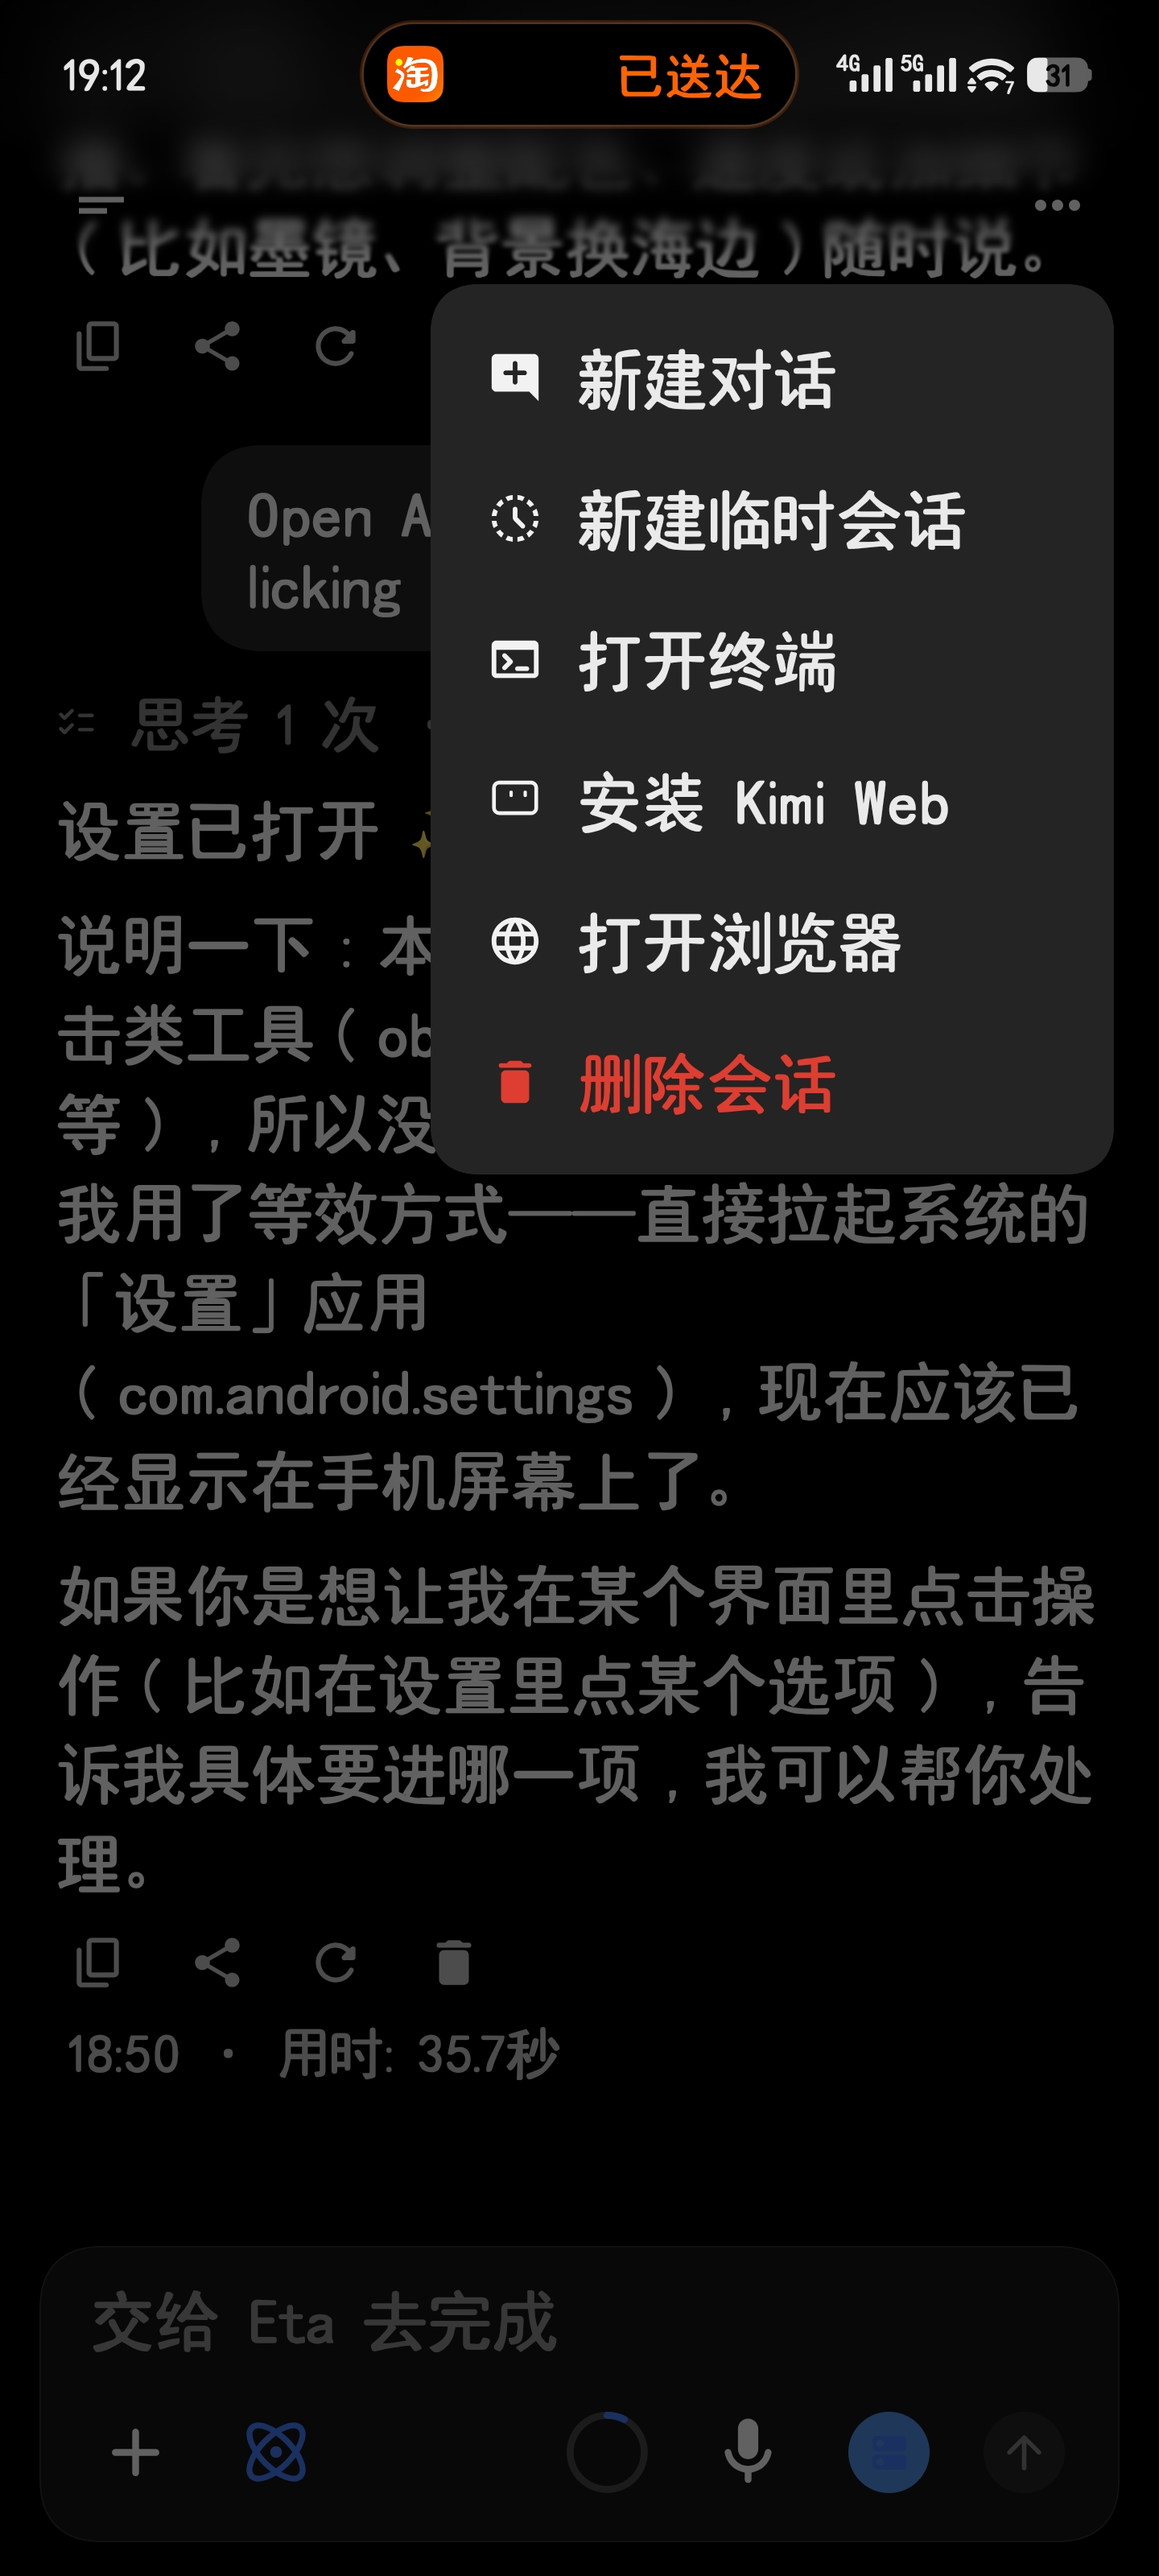
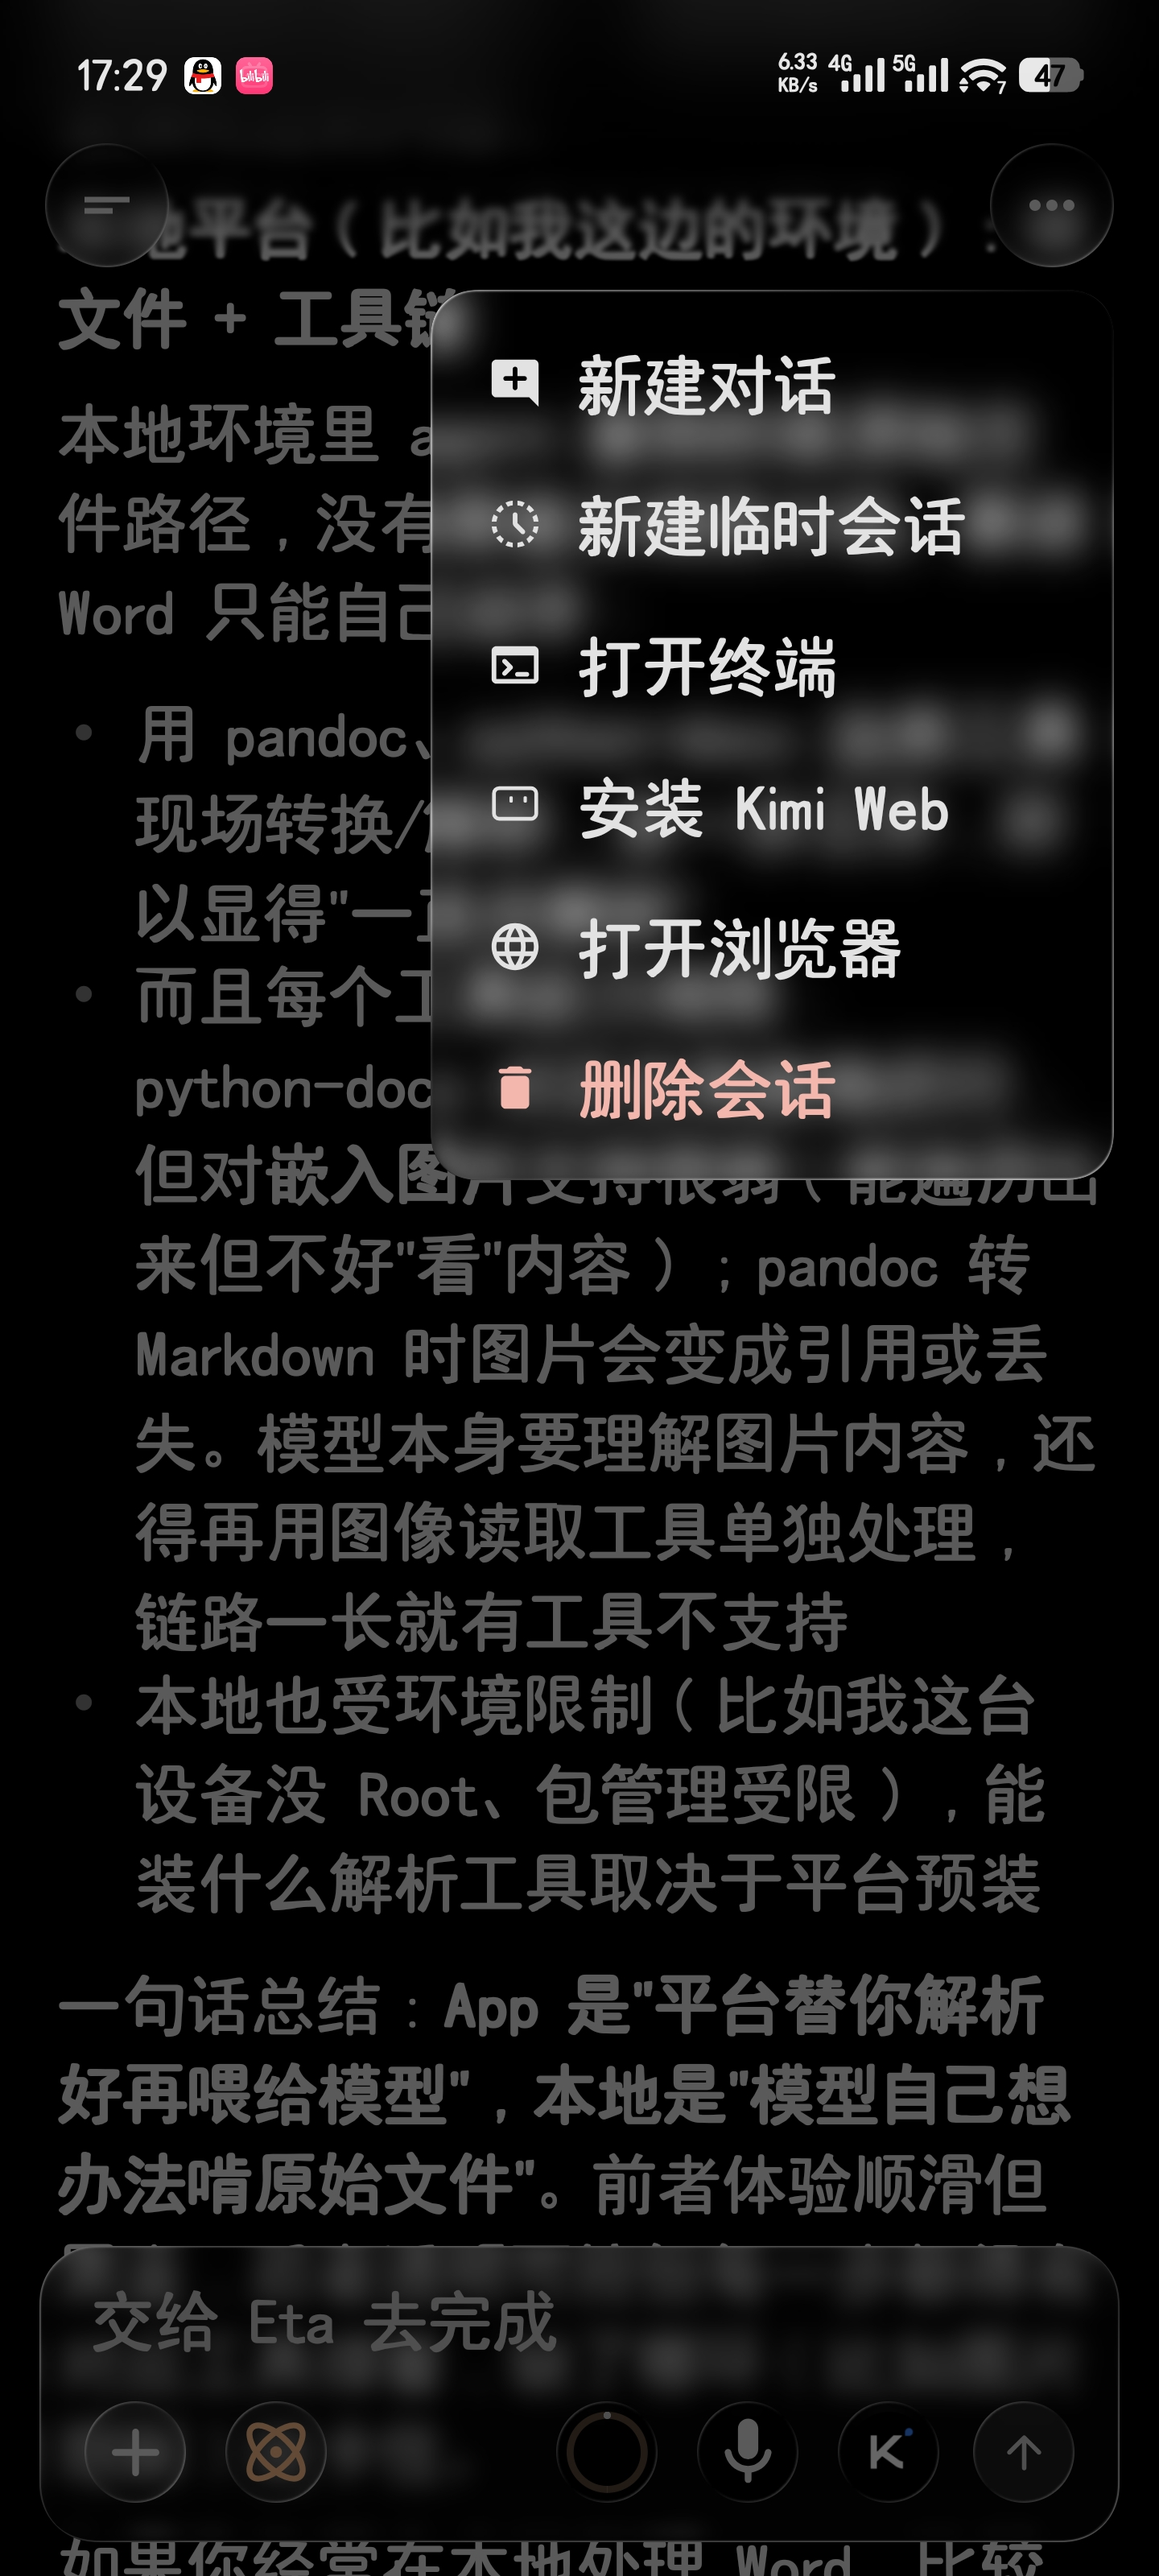
docs: README 界面预览换液态玻璃版实拍——更多菜单/临时会话两张截图更新为 016 深色玻璃版，首列表格标题去掉不再出现的计时行标注

diff --git a/README.md b/README.md
@@ -25,7 +25,7 @@
 
 ## 界面预览（Mod 实拍）
 
-| 更多菜单：临时会话 / 删除会话（附单轮计时行） | 临时会话（输入区标识条） |
+| 更多菜单：临时会话 / 删除会话 | 临时会话（输入区标识条） |
 | :-------------------------------------------: | :----------------------: |
 | ![更多菜单](docs/Screenshots/mod_menu_timing.jpg) | ![临时会话](docs/Screenshots/mod_temp_conversation.jpg) |
 
